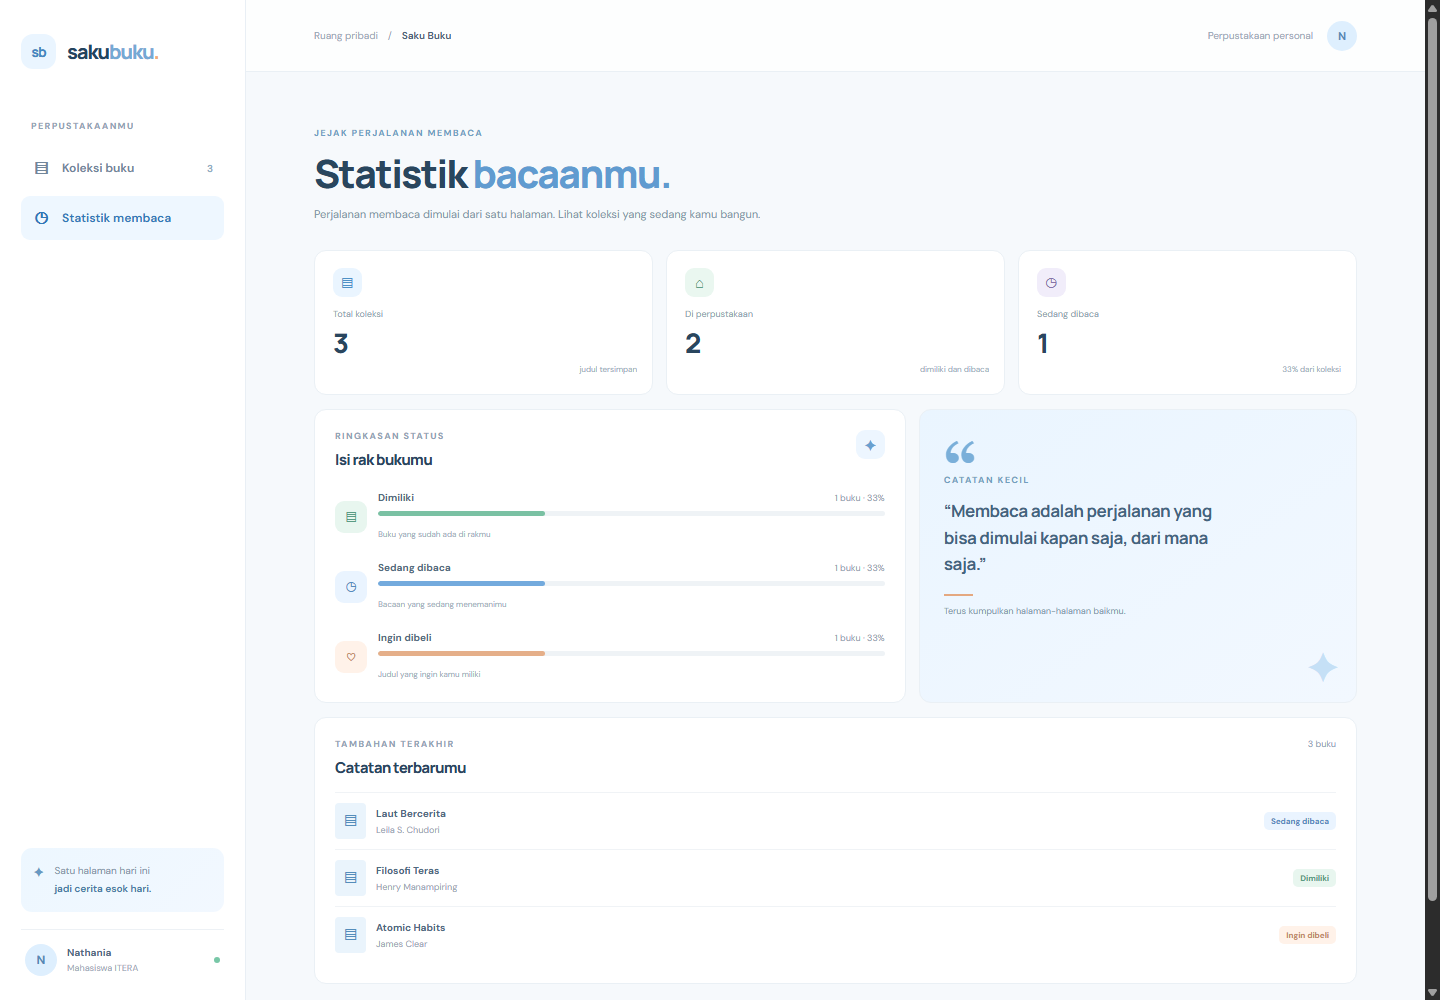
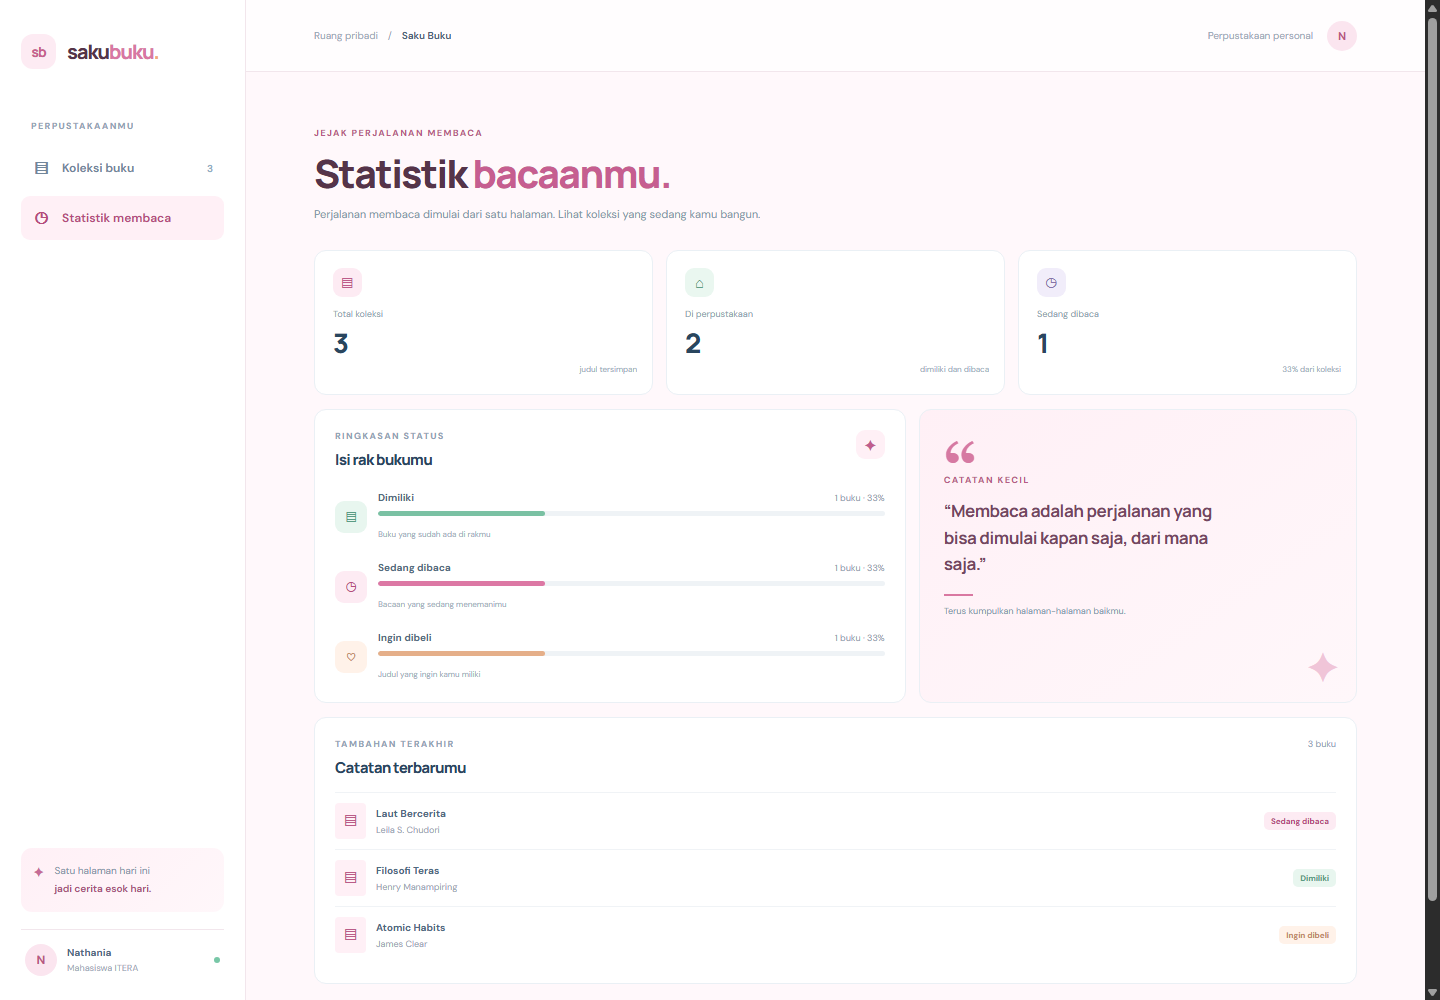
Switch book app to pink theme

diff --git a/nathaniahutapea_124140101_pertemuan3/src/styles.css b/nathaniahutapea_124140101_pertemuan3/src/styles.css
@@ -221,3 +221,69 @@ h1, h2, h3, p { margin-top: 0; }
 @media (max-width: 390px) {
   .nav-link { font-size: 0; gap: 0; }.nav-icon { width: 22px; font-size: 17px; }.welcome-copy { max-width: 82%; }.welcome-copy h1 { font-size: 25px; }.welcome-art { opacity: .35; }.form-row { grid-template-columns: 1fr; }.book-cover { width: 74px; flex-basis: 74px; }
 }
+
+:root {
+  color: #4b2d3e;
+  background: #fff8fb;
+  --ink: #4b2d3e;
+  --muted: #9b7c8c;
+  --blue: #d66f9d;
+  --blue-deep: #b54c7c;
+  --line: #f2e2ea;
+  --canvas: #fff8fb;
+}
+
+body { background: #fff8fb; }
+button:focus-visible, a:focus-visible, input:focus-visible, select:focus-visible, textarea:focus-visible { outline-color: #eda4c2; }
+.sidebar { border-color: #f2e6ec; }
+.brand { color: #553449; }
+.brand > span:last-child > span { color: #d878a4; }
+.brand-mark { color: #c75f8e; background: #fdebf3; }
+.nav-link:hover, .nav-link.active { color: #b54c7c; background: #fff0f6; }
+.reading-note { color: #c66b96; background: linear-gradient(135deg, #fff0f6, #fff7fa); }
+.reading-note strong { color: #a9557b; }
+.profile-avatar, .topbar-avatar { color: #b95884; background: #fbe5ef; }
+.welcome-banner { background: linear-gradient(108deg, #f9dfeb 1%, #fff0f6 56%, #fff6f9 100%); }
+.welcome-copy .eyebrow, .banner-index { color: #b75c87; }
+.welcome-copy h1 { color: #553449; }
+.welcome-copy h1 span, .page-title-block h1 span, .not-found-page h1 span { color: #c65e90; }
+.button-primary { background: #cf6596; box-shadow: 0 5px 13px #cf65962b; }
+.button-primary:hover { background: #b84e80; box-shadow: 0 7px 16px #cf659640; }
+.button-light { color: #a34d78; }
+.art-book-back { background: #e9a4c1; }
+.art-book-mid { background: #c69ab9; }
+.art-book-front { color: #87536f; background: #fff6f2; }
+.art-book-front i { background: #dc82aa; }
+.art-orbit { border-color: #e8a5c1; }
+.sparkle-two { color: #d878a4; }
+.banner-index span { color: #d3a1b8; }
+.filter-tab.is-active { border-color: #f3d7e4; color: #b54c7c; background: #fff0f6; }
+.filter-tab.is-active span { color: #b54c7c; background: #fbe0ec; }
+.cover-blue { background: linear-gradient(145deg, #ec9cba, #cf6596); }
+.cover-violet { background: linear-gradient(145deg, #d5afd0, #ad83ad); }
+.cover-mint { background: linear-gradient(145deg, #e4a9c2, #c979a0); }
+.cover-coral { background: linear-gradient(145deg, #f0b3ad, #d97f87); }
+.cover-navy { background: linear-gradient(145deg, #ad829a, #825c77); }
+.status-reading { color: #b54c7c; background: #fdebf3; }
+.icon-button:hover { color: #b54c7c; background: #fff0f6; }
+.genre-label { color: #a56e89; background: #fbf0f5; }
+.empty-library { border-color: #efd9e4; background: #fffafd; }
+.empty-book { color: #c46191; background: #fdebf3; }
+.form-heading .eyebrow, .page-title-block .eyebrow { color: #b75c87; }
+.form-field:focus-within input, .form-field:focus-within select, .form-field:focus-within textarea { border-color: #e39aba; box-shadow: 0 0 0 3px #fff0f6; }
+.page-title-block h1, .not-found-page h1 { color: #553449; }
+.stat-icon { color: #bd5c8a; background: #fdebf3; }
+.panel-icon { color: #c05d8e; background: #fff0f6; }
+.status-symbol.reading { color: #b54c7c; background: #fdebf3; }
+.progress-fill.reading { background: #dc78a4; }
+.reading-quote { background: linear-gradient(145deg, #fff0f6, #fff7fa); }
+.quote-mark { color: #d679a2; }
+.reading-quote .eyebrow { color: #b75c87; }
+.reading-quote blockquote { color: #74465f; }
+.quote-rule { background: #d978a1; }
+.quote-decoration { color: #f0c5d8; }
+.mini-book-icon { color: #ba5c88; background: #fff0f6; }
+.app-footer i { color: #cd7098; }
+.topbar { border-color: #f2e6ec; }
+.profile-chip { border-color: #f2e6ec; }
+.app-footer { border-color: #f2e6ec; }

diff --git a/nathaniahutapea_124140101_pertemuan3/index.html b/nathaniahutapea_124140101_pertemuan3/index.html
@@ -3,7 +3,7 @@
   <head>
     <meta charset="UTF-8" />
     <meta name="viewport" content="width=device-width, initial-scale=1.0" />
-    <meta name="theme-color" content="#edf6ff" />
+    <meta name="theme-color" content="#fff0f6" />
     <meta name="description" content="Perpustakaan personal untuk menyimpan buku yang dimiliki, dibaca, dan ingin dibeli." />
     <title>Saku Buku — Perpustakaan Personal</title>
     <link rel="preconnect" href="https://fonts.googleapis.com" />
